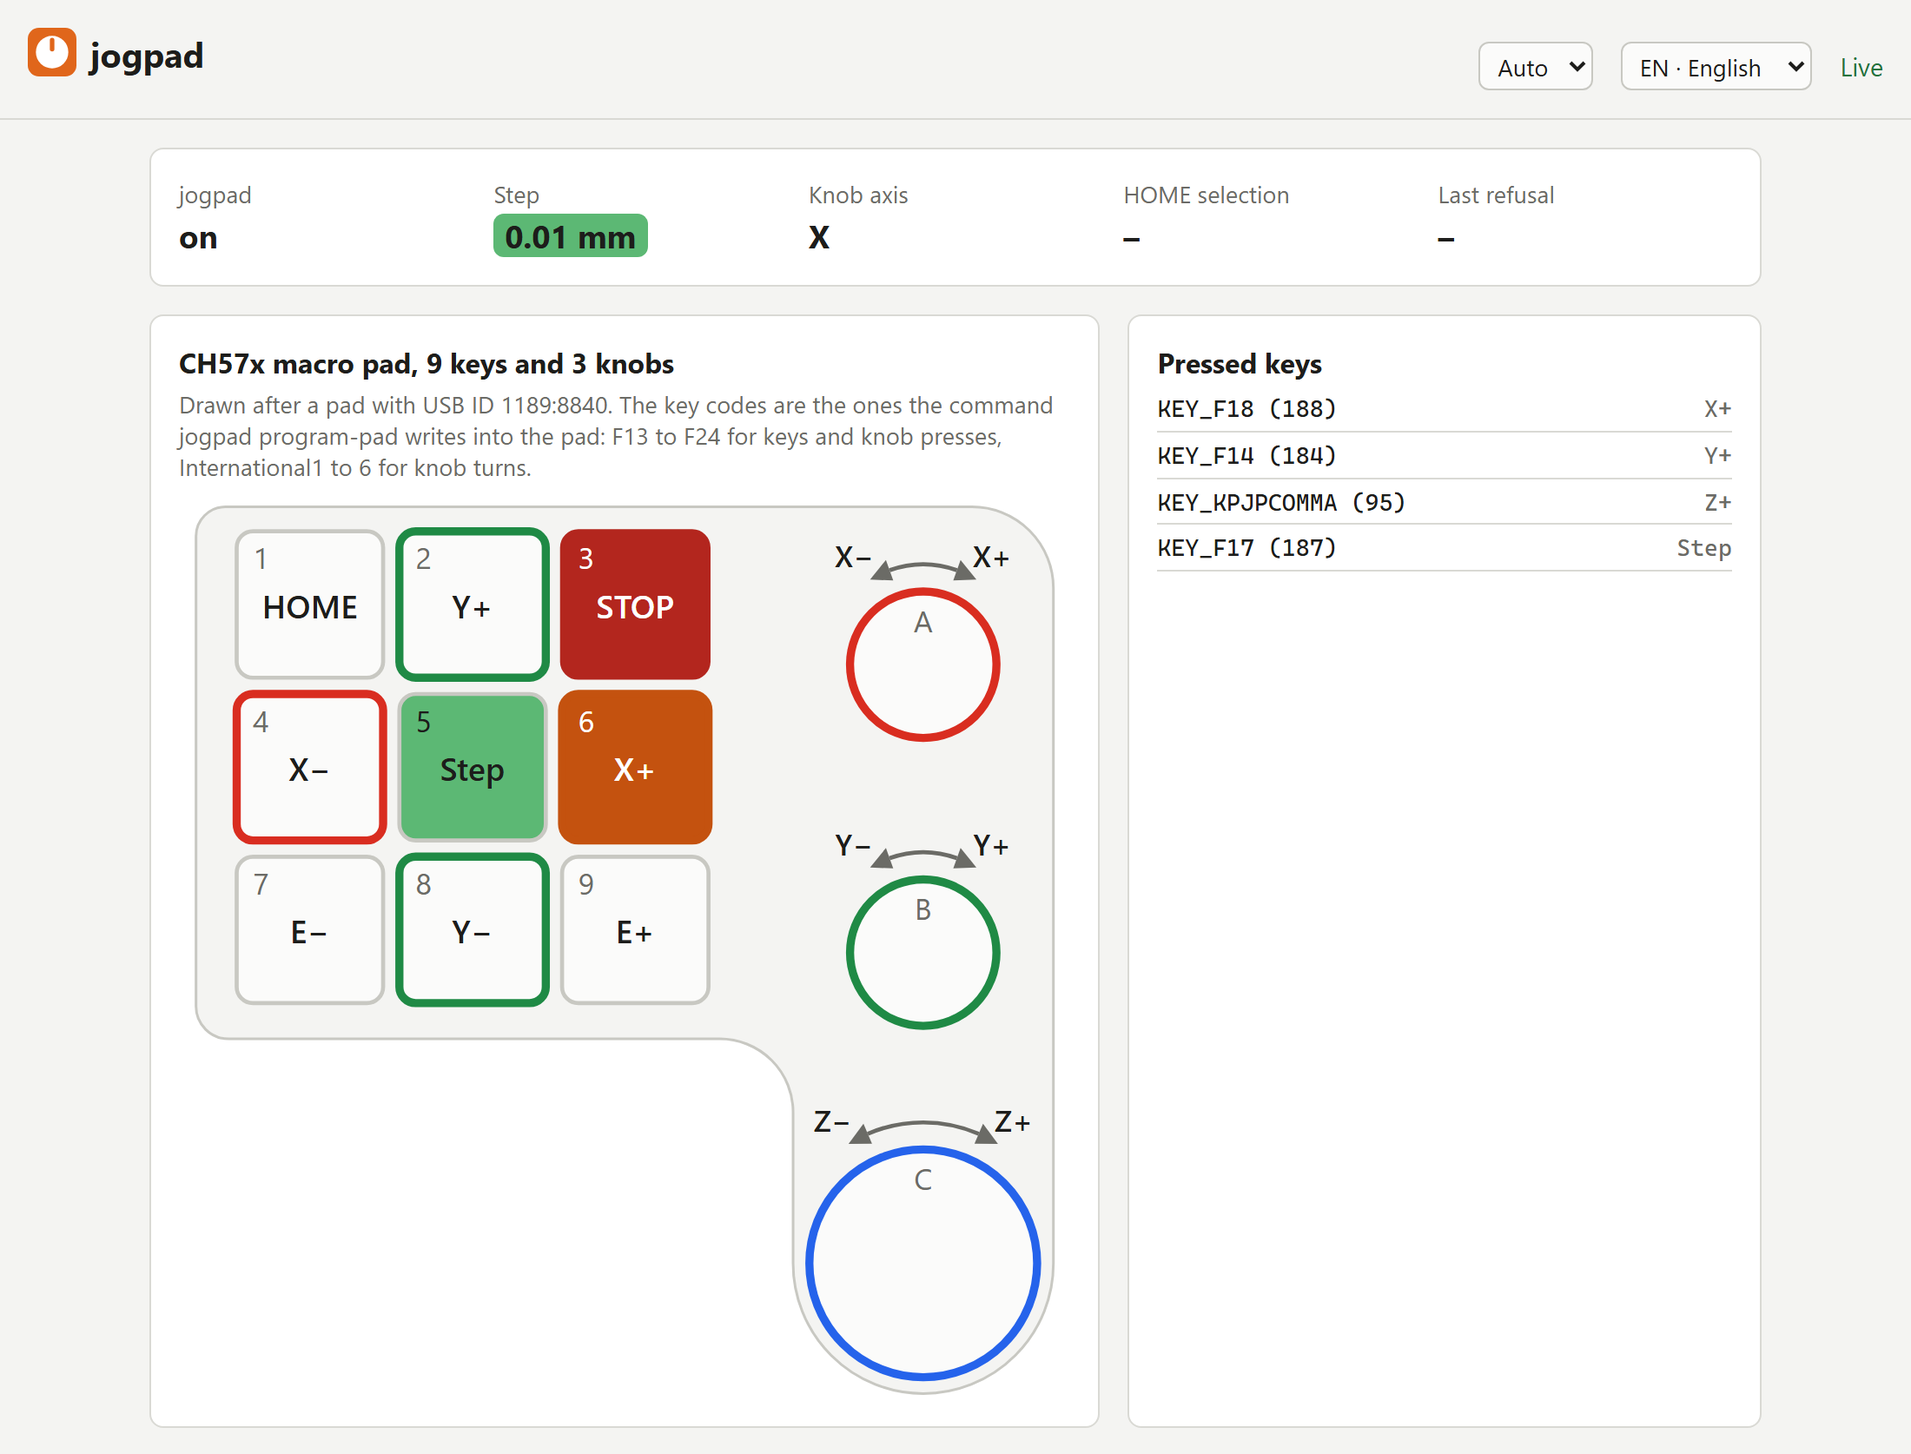
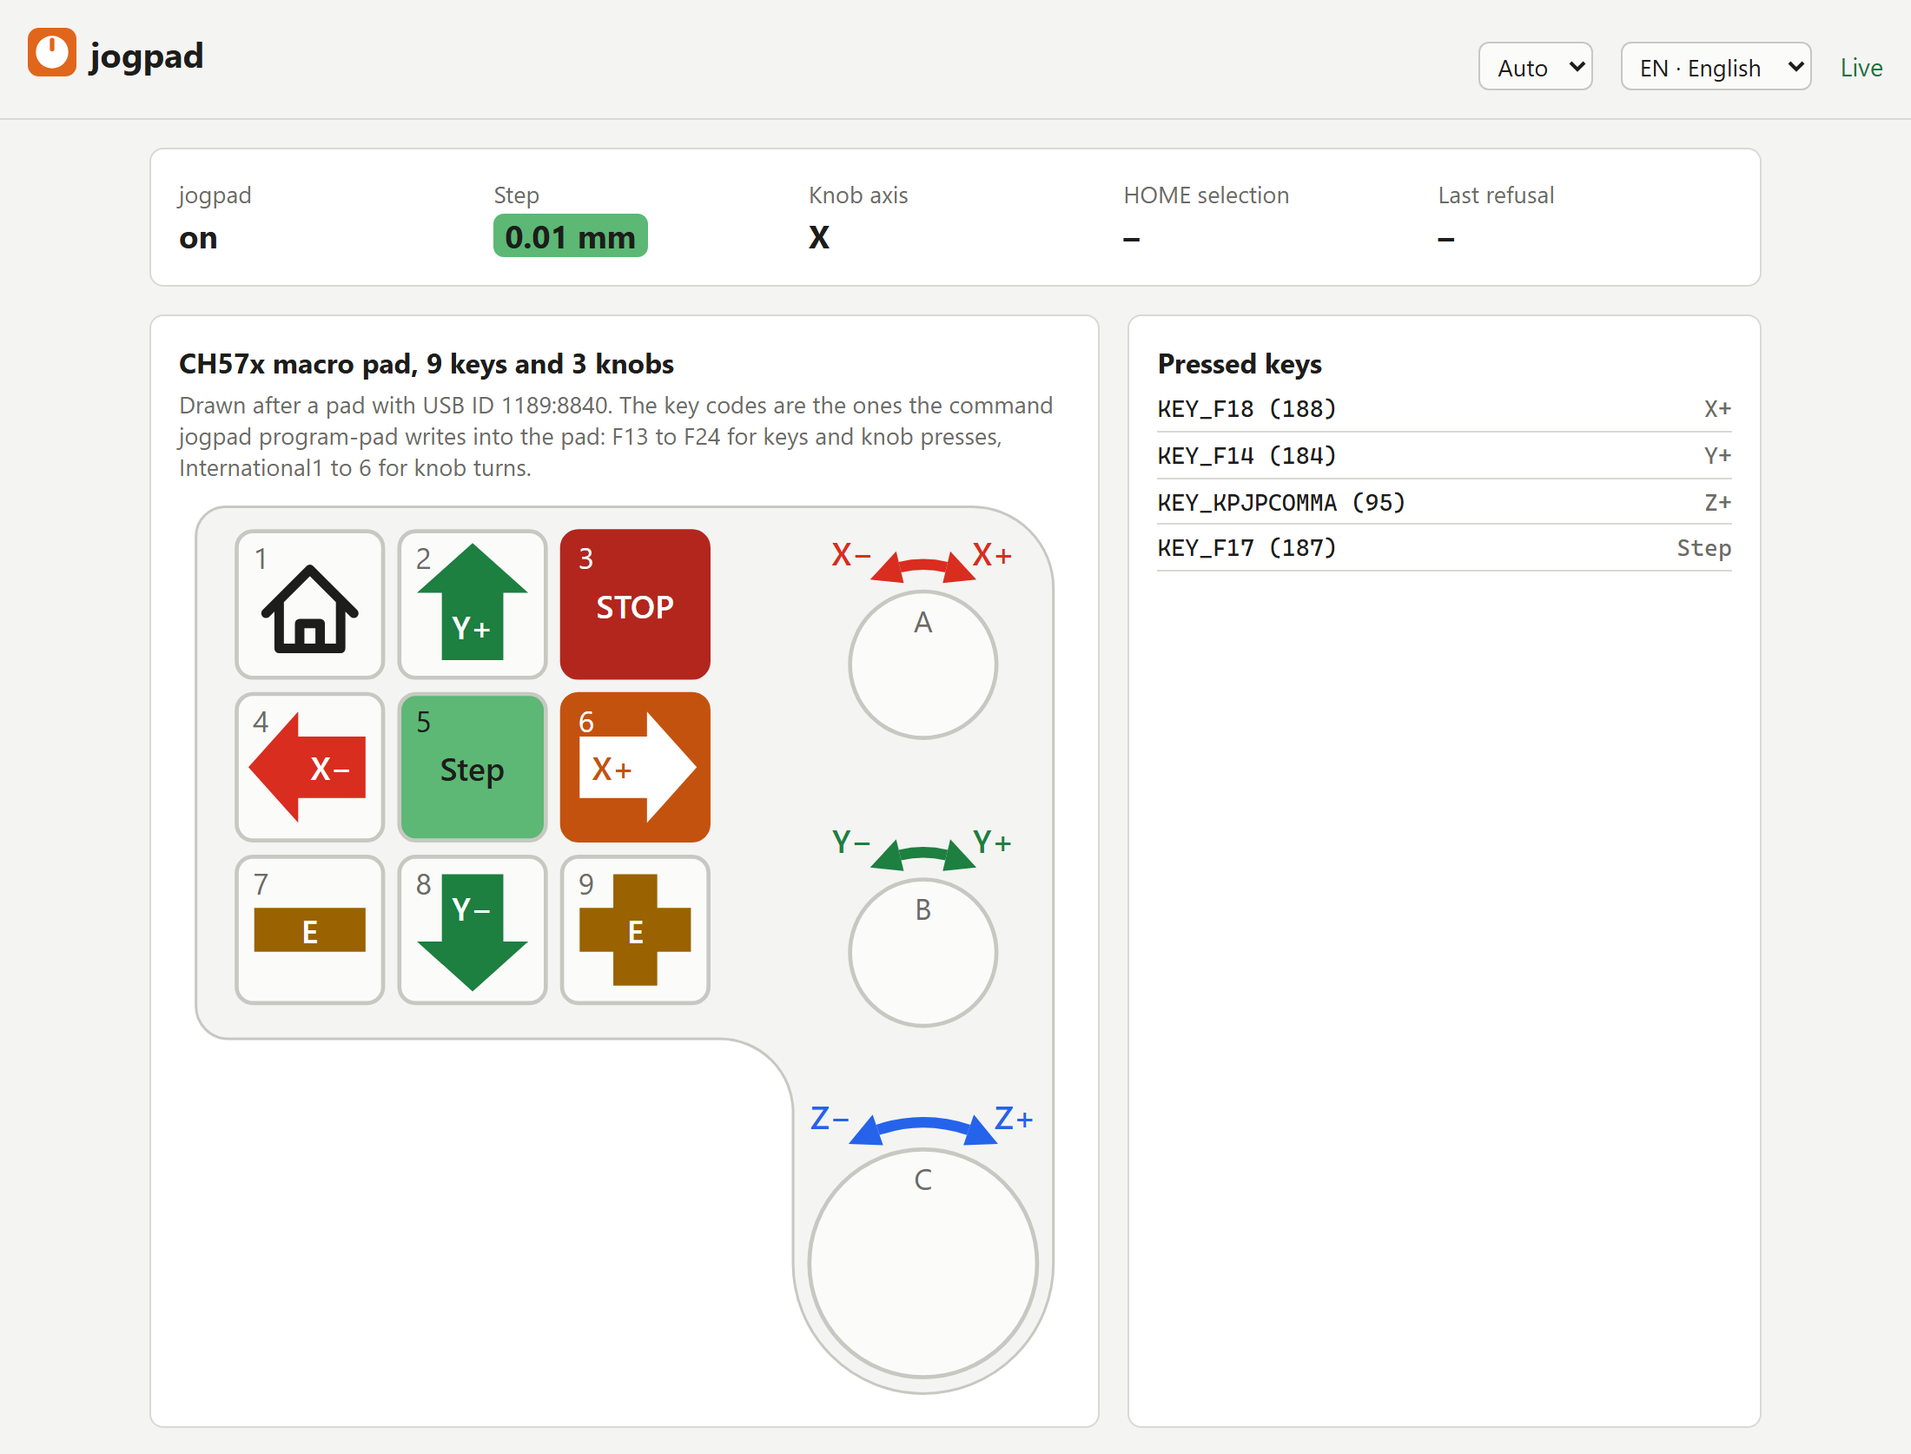
feat: keys show arrows and signs in the colour of their axis
The thin coloured edges of the drawn keys and knobs were hard to read.
Each key now shows what it does as a symbol in the colour of its axis:

- X and Y keys: a thick arrow pointing the way the tool goes, with the
action written in its shaft; Y+ points up, away from the user, as in the
direction check.
- Z and extruder keys: a large plus or minus sign with the axis in its
middle, since they have no way in the drawing's plane.
- HOME: a house, in the text colour. Colour stays for axes.
- Knobs: the arrow above each knob is thick and in the colour of its
axis, and follows the selected axis for
`selected_plus`/`selected_minus`. The knob ring is neutral.
- STOP and the step key keep their fills; a pressed key still lights up
orange, its symbol in the accent text colour.

Filling the axis keys with their colour was the other option, but X is
red, so X−, X+, STOP and the step key at its largest step would all have
been red. A shape keeps them apart.

The symbols follow the action assigned to a key, so a learned or
configured key gets its symbol by itself. The extruder gets its own
colour, amber (`--axis-e`), and the light theme's green is a touch
darker (`#1f8a45` to `#1d7f40`) so that white text on it reaches 4.5:1;
`--axis-text` is the text on all symbols. Checked in Chrome at the
panel's size, light and dark, with the CH57x and the numpad layout;
screenshots renewed.

diff --git a/src/jogpad/web/app.js b/src/jogpad/web/app.js
@@ -11,8 +11,13 @@ const OUTLINE = 0.2;
 // which is as wide as the knob's box, and stays inside the pad's outline.
 const TURN_GAP = 10;
 const TURN_ANGLE = (32 * Math.PI) / 180; // from the top to each end
-const TURN_HEAD = 8;
-const TURN_LABEL = 11; // from the arrow's tip outwards to its label's middle
+const TURN_HEAD = 12;
+const TURN_LABEL = 12; // from the arrow's tip outwards to its label's middle
+// Keys that move X or Y show the way the tool goes as an arrow, degrees
+// clockwise from up: Y+ is away from the user, as on the direction check.
+const ARROWS = { y_plus: 0, x_plus: 90, y_minus: 180, x_minus: 270 };
+// Z and the extruder have no way in the drawing's plane; a sign stands in.
+const SIGNS = { z_plus: ["Z", true], z_minus: ["Z", false], e_plus: ["E", true], e_minus: ["E", false] };
 const RECENT = 12;
 const LEARN_S = 30;
 const LANGUAGE_KEY = "jogpad.language";
@@ -154,14 +159,22 @@ function drawPad(pad) {
     // On a knob the corner of the box lies outside the circle, so the label goes inside.
     const label = knob ? { x: x + w / 2, y: y + 15, "text-anchor": "middle" } : { x: x + 6, y: y + 14 };
     text(c.label, { class: "label", ...label }, group);
-    if (actions.press) {
+    const [cx, cy, size] = [x + w / 2, y + h / 2, Math.min(w, h)];
+    const press = actions.press;
+    if (press && !knob && press in ARROWS) {
+      drawArrow(cx, cy, size, ARROWS[press], labels[press] || press, group);
+    } else if (press && !knob && press in SIGNS) {
+      drawSign(cx, cy, size, ...SIGNS[press], group);
+    } else if (press === "home" && !knob) {
+      drawHome(cx, cy, size, group);
+    } else if (press) {
       // Below a knob's label.
-      const press = { x: x + w / 2, y: y + h / 2 + (knob ? 10 : 5), "text-anchor": "middle", class: "action" };
-      text(labels[actions.press] || actions.press, press, group);
+      const at = { x: cx, y: cy + (knob ? 10 : 5), "text-anchor": "middle", class: "action" };
+      text(labels[press] || press, at, group);
     }
-    const ends = knob ? drawTurns(x + w / 2, y + h / 2, Math.min(w, h) / 2, actions, root) : {};
+    const turns = knob ? drawTurns(cx, cy, size / 2, actions, root) : null;
     group.classList.toggle("stop", Object.values(actions).includes("stop"));
-    controls.set(c.id, { group, ends, actions: Object.values(actions) });
+    controls.set(c.id, { group, turns: turns?.group, ends: turns?.ends ?? {}, actions: Object.values(actions) });
   }
   const shape = pad.layout.outline;
   const margin = OUTLINE * UNIT;
@@ -176,10 +189,50 @@ function drawPad(pad) {
   root.setAttribute("viewBox", `${box.x} ${box.y} ${box.width} ${box.height}`);
 }
 
+// Shapes in hundredths of the key's size, around its middle: a thick arrow
+// pointing up, with its shaft below the head, where the action is written.
+const ARROW = [[0, -42], [38, -8], [21, -8], [21, 38], [-21, 38], [-21, -8], [-38, -8]];
+const ARROW_TEXT = 15;
+const SIGN_LENGTH = 38;
+const SIGN_WIDTH = 15;
+
+function points(shape, size) {
+  return shape.map(([x, y]) => `${(x * size) / 100},${(y * size) / 100}`).join(" ");
+}
+
+function drawArrow(cx, cy, size, angle, label, group) {
+  const transform = `translate(${cx} ${cy}) rotate(${angle})`;
+  svg("polygon", { class: "symbol", points: points(ARROW, size), transform }, group);
+  const turn = (angle * Math.PI) / 180;
+  const offset = (ARROW_TEXT * size) / 100;
+  const at = { x: cx - offset * Math.sin(turn), y: cy + offset * Math.cos(turn) };
+  text(label, { class: "on-symbol", ...at, "text-anchor": "middle", "dominant-baseline": "central" }, group);
+}
+
+// A plus or a minus sign with the axis written in its middle.
+function drawSign(cx, cy, size, axis, plus, group) {
+  const [a, b] = [SIGN_LENGTH, SIGN_WIDTH];
+  const shape = plus
+    ? [[-b, -a], [b, -a], [b, -b], [a, -b], [a, b], [b, b], [b, a], [-b, a], [-b, b], [-a, b], [-a, -b], [-b, -b]]
+    : [[-a, -b], [a, -b], [a, b], [-a, b]];
+  svg("polygon", { class: "symbol", points: points(shape, size), transform: `translate(${cx} ${cy})` }, group);
+  text(axis, { class: "on-symbol", x: cx, y: cy, "text-anchor": "middle", "dominant-baseline": "central" }, group);
+}
+
+function drawHome(cx, cy, size, group) {
+  const p = (x, y) => `${cx + (x * size) / 100},${cy + (y * size) / 100}`;
+  // A little low, clear of the key's number in the corner.
+  const roof = `M${p(-30, 6)} L${p(0, -24)} L${p(30, 6)}`;
+  const walls = `M${p(-21, -3)} L${p(-21, 30)} L${p(21, 30)} L${p(21, -3)}`;
+  const door = `M${p(-7, 30)} L${p(-7, 13)} L${p(7, 13)} L${p(7, 30)}`;
+  svg("path", { class: "home", d: `${roof} ${walls} ${door}` }, group);
+}
+
 // Above a knob, outside its circle: an arc with a head at each end, labelled
 // with what that turn does, anticlockwise on the left. Lines and filled heads
-// in one colour, so the drawing also serves as a template for marking the pad.
-// Outside the knob's group, whose colours for STOP or the step would hide it.
+// in the axis's colour, so the drawing also serves as a template for marking
+// the pad. Outside the knob's group, whose colours for STOP or the step would
+// hide it.
 function drawTurns(cx, cy, r, actions, root) {
   const radius = r + TURN_GAP;
   // Angles from the top, clockwise; as "x,y" in a path.
@@ -198,7 +251,7 @@ function drawTurns(cx, cy, r, actions, root) {
     const label = text(turnLabel(actions[part]), { x, y, "text-anchor": "middle", "dominant-baseline": "central" }, node);
     ends[part] = { node, label, action: actions[part] };
   }
-  return ends;
+  return { group, ends };
 }
 
 // A knob on selected_plus/minus moves whichever axis is selected at the time.
@@ -499,15 +552,17 @@ function stepSize(step) {
 // two axes takes none.
 function colourControls(state) {
   const size = stepSize(state.step);
-  for (const { group, actions } of controls.values()) {
+  for (const { group, turns, actions } of controls.values()) {
     const axes = new Set(
       actions
-        .map((a) => (a.startsWith("selected_") ? state.selected_axis : a.match(/^([xyz])_/)?.[1]))
+        .map((a) => (a.startsWith("selected_") ? state.selected_axis : a.match(/^([xyze])_/)?.[1]))
         .filter(Boolean)
         .map((axis) => axis.toLowerCase()),
     );
-    for (const axis of ["x", "y", "z"]) {
-      group.classList.toggle(`axis-${axis}`, axes.size === 1 && axes.has(axis));
+    for (const axis of ["x", "y", "z", "e"]) {
+      const coloured = axes.size === 1 && axes.has(axis);
+      group.classList.toggle(`axis-${axis}`, coloured);
+      turns?.classList.toggle(`axis-${axis}`, coloured);
     }
     for (const s of ["small", "middle", "large"]) {
       group.classList.toggle(`step-${s}`, actions.includes("step") && size === s);

diff --git a/src/jogpad/web/style.css b/src/jogpad/web/style.css
@@ -137,19 +137,31 @@ section {
 .control .label { fill: var(--muted); font-size: 11px; }
 .control .action { font-size: 12px; font-weight: 600; }
 
-/* The arrows above the knobs, in one colour like a marking on the pad. */
+/* Axes in the colours slicers use, the extruder in amber: arrows for X and Y,
+   signs for Z and E, and the arrow above a knob, like a marking on the pad.
+   Fills only for STOP and for the step key, which shows the current step size
+   like the state bar. */
+.control.axis-x, .turns.axis-x { --axis: var(--axis-x); }
+.control.axis-y, .turns.axis-y { --axis: var(--axis-y); }
+.control.axis-z, .turns.axis-z { --axis: var(--axis-z); }
+.control.axis-e, .turns.axis-e { --axis: var(--axis-e); }
+.control .action { fill: var(--axis, var(--text)); }
+.control .symbol { fill: var(--axis, var(--muted)); }
+.control .on-symbol { fill: var(--axis-text); font-size: 12px; font-weight: 600; }
+.control .home {
+  fill: none;
+  stroke: var(--text);
+  stroke-width: 3.5px;
+  stroke-linecap: round;
+  stroke-linejoin: round;
+}
+
 .turns { pointer-events: none; }
-.turns .arc { fill: none; stroke: var(--muted); stroke-width: calc(var(--border) * 1.5); }
-.turns .head { fill: var(--muted); }
-.turns text { fill: var(--text); font-size: 11px; font-weight: 600; }
+.turns .arc { fill: none; stroke: var(--axis, var(--muted)); stroke-width: 4px; }
+.turns .head { fill: var(--axis, var(--muted)); }
+.turns text { fill: var(--axis, var(--text)); font-size: 12px; font-weight: 600; }
 .turns .on .head, .turns .on text { fill: var(--accent); }
 
-/* Axes in the colours slicers use. Fills only for STOP and for the step key,
-   which shows the current step size like the state bar. */
-.control.axis-x rect, .control.axis-x circle { stroke: var(--axis-x); }
-.control.axis-y rect, .control.axis-y circle { stroke: var(--axis-y); }
-.control.axis-z rect, .control.axis-z circle { stroke: var(--axis-z); }
-.control[class*="axis-"] rect, .control[class*="axis-"] circle { stroke-width: calc(var(--border) * 3); }
 .control.stop rect, .control.stop circle { fill: var(--stop); stroke: var(--stop); }
 .control.stop text { fill: var(--stop-text); }
 .control.step-small rect, .control.step-small circle { fill: var(--step-small); }
@@ -159,6 +171,9 @@ section {
 
 .control.active rect, .control.active circle { fill: var(--accent); stroke: var(--accent); }
 .control.active text { fill: var(--accent-text); }
+.control.active .symbol { fill: var(--accent-text); }
+.control.active .on-symbol { fill: var(--accent); }
+.control.active .home { stroke: var(--accent-text); }
 
 .recent ol {
   list-style: none;

diff --git a/src/jogpad/web/tokens.css b/src/jogpad/web/tokens.css
@@ -1,8 +1,9 @@
 /* Design tokens. style.css uses only these variables. Text, muted text and
    the accent stay at 4.5:1 or more against the surface, and the accent text
-   against the accent, in light and dark. The axis colours, as edges, stay at
-   3:1 or more against a key. The step colours, smallest to largest step, and
-   STOP are fills, the same in both, with their text at 4.5:1 or more. */
+   against the accent, in light and dark. The axis colours fill the arrows and
+   signs on the keys: 3:1 or more against a key, with --axis-text on them at
+   4.5:1 or more. The step colours, smallest to largest step, and STOP are
+   fills, the same in both, with their text at 4.5:1 or more. */
 
 :root {
   --bg: #f4f4f2;
@@ -23,8 +24,10 @@
   --stop: #b3261e;
   --stop-text: #ffffff;
   --axis-x: #d92d20;
-  --axis-y: #1f8a45;
+  --axis-y: #1d7f40;
   --axis-z: #2563eb;
+  --axis-e: #9a6200;
+  --axis-text: #ffffff;
   --radius: 8px;
   --radius-small: 6px;
   --border: 1px;
@@ -53,6 +56,8 @@
     --axis-x: #f2726a;
     --axis-y: #4cc274;
     --axis-z: #60a5fa;
+    --axis-e: #e0a53a;
+    --axis-text: #161615;
     color-scheme: dark;
   }
 }
@@ -72,5 +77,7 @@
   --axis-x: #f2726a;
   --axis-y: #4cc274;
   --axis-z: #60a5fa;
+  --axis-e: #e0a53a;
+  --axis-text: #161615;
   color-scheme: dark;
 }

diff --git a/docs/usage.md b/docs/usage.md
@@ -147,17 +147,24 @@ pad and lights up every key you press, with the action it triggers, and shows
 step size, knob axis and the last refusal. Keys outside the drawing are listed
 too, so the page also tells you which code an unknown key sends.
 
-Colours help to find your way. The keys of X, Y and Z have red, green and
-blue edges, as in slicers; a knob on the selected axis takes the colour of
-that axis. STOP is red. The step size and the step key are green for the
-smallest step, red for the largest and yellow for those between, so a large
-step is seen before it moves the machine.
+Symbols and colours help to find your way. They follow the action of each
+key, so a key you learn or set gets its symbol by itself:
 
-An arrow over each knob shows what turning it does: the label at its left end
-belongs to turning left, the one at its right end to turning right, for
-example `X−` and `X+`. The labels follow the keys you set, and a knob on
-`selected_plus` and `selected_minus` names the selected axis. With every
-detent the knob and the end of the arrow light up.
+- X and Y keys carry a thick arrow pointing the way the tool goes, with the
+  action written in it; Y+ points up, away from you.
+- Z and extruder keys carry a large plus or minus sign with the axis in it.
+- HOME shows a house.
+- X is red, Y green, Z blue, as in slicers, and the extruder amber.
+- STOP is red. The step size and the step key are green for the smallest
+  step, red for the largest and yellow for those between, so a large step is
+  seen before it moves the machine.
+
+An arrow over each knob, in the colour of its axis, shows what turning it
+does: the label at its left end belongs to turning left, the one at its right
+end to turning right, for example `X−` and `X+`. The labels follow the keys
+you set, and a knob on `selected_plus` and `selected_minus` names and colours
+the selected axis. With every detent the knob and the end of the arrow light
+up.
 
 A CH57x macro pad shows the step size itself: with a CH57x layout jogpad lights
 the whole pad in the same colours, green after every start. The pad stores each
@@ -186,8 +193,8 @@ everyone at the machine reads them.
 At the bottom, the page links to the repository, to what is new in each
 version, and to a bug report form with your jogpad version already filled in.
 
-![The web page: the drawn macro pad lights up the pressed key, an arrow over each knob names the axis direction of each turn, the list on the right shows the last keys with their actions](assets/screenshots/web-page-light.png#only-light)
-![The web page: the drawn macro pad lights up the pressed key, an arrow over each knob names the axis direction of each turn, the list on the right shows the last keys with their actions](assets/screenshots/web-page-dark.png#only-dark)
+![The web page: the drawn macro pad shows arrows and signs in the colour of each axis and lights up the pressed key, the list on the right shows the last keys with their actions](assets/screenshots/web-page-light.png#only-light)
+![The web page: the drawn macro pad shows arrows and signs in the colour of each axis and lights up the pressed key, the list on the right shows the last keys with their actions](assets/screenshots/web-page-dark.png#only-dark)
 
 ### Set up keys and directions
 

diff --git a/README.md b/README.md
@@ -60,7 +60,7 @@ the nozzle.
 <p align="center">
   <picture>
     <source media="(prefers-color-scheme: dark)" srcset="docs/assets/screenshots/web-page-dark.png">
-    <img src="docs/assets/screenshots/web-page-light.png" alt="The jogpad web page: the drawn macro pad lights up the pressed key, an arrow over each knob names the axis direction of each turn, a list shows the last keys with their actions" width="720">
+    <img src="docs/assets/screenshots/web-page-light.png" alt="The jogpad web page: the drawn macro pad shows arrows and signs in the colour of each axis and lights up the pressed key, a list shows the last keys with their actions" width="720">
   </picture>
 </p>
 
@@ -99,7 +99,7 @@ Klipper:
   key, at most 250 mm/s
 - every move and homing shows up in the Mainsail or Fluidd console
 - a web page in English and German, light or dark, that draws the pad with
-  its axes in colour and an arrow over each knob for its turning directions,
+  arrows and signs in the colour of each axis on its keys and over its knobs,
   shows each key press live and the step size from green to red, learns keys
   and checks the direction of each axis; reachable from every computer in the
   network, changes only from those Moonraker trusts

diff --git a/docs/index.md b/docs/index.md
@@ -44,9 +44,10 @@ Klipper, tested on a QIDI Plus 4 with the keypad of a Logitech MX Keys S:
 - a held axis key keeps moving until released, at a speed set with the step
   key, at most 250 mm/s
 - every move and homing shows up in the Mainsail or Fluidd console
-- a web page that draws the pad with its axes in colour, shows key presses live
-  and the step size from green to red, learns keys and checks axis directions;
-  open in the network, changes only from computers Moonraker trusts
+- a web page that draws the pad with arrows and signs in the colour of each
+  axis, shows key presses live and the step size from green to red, learns
+  keys and checks axis directions; open in the network, changes only from
+  computers Moonraker trusts
 - a switch in Mainsail and Fluidd that turns jogpad off, STOP included
 - the pad and its state as a camera panel in Mainsail and Fluidd, sized to
   the pad and with a link to the full page
